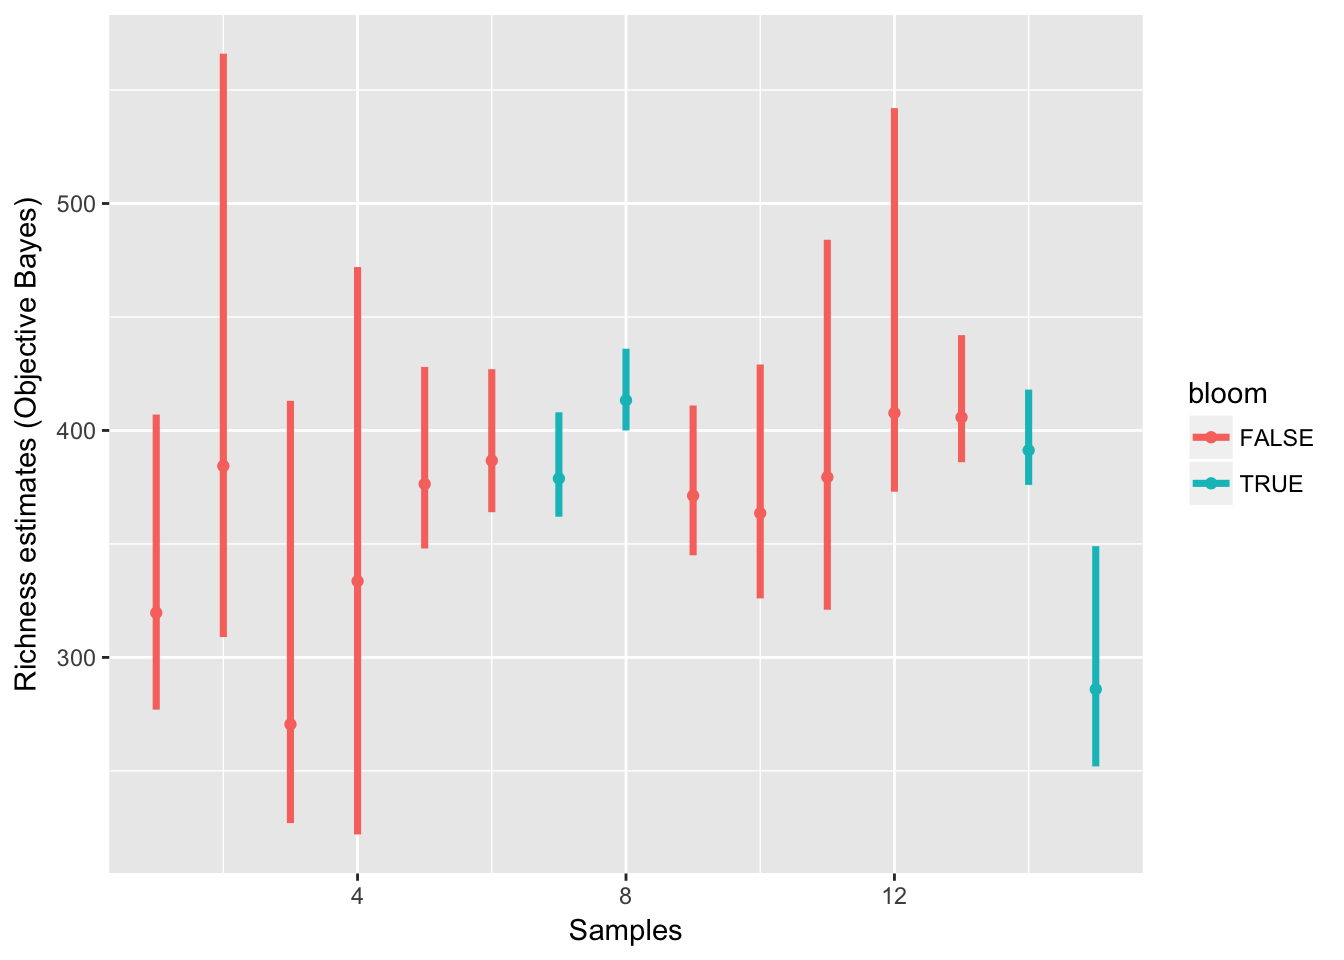
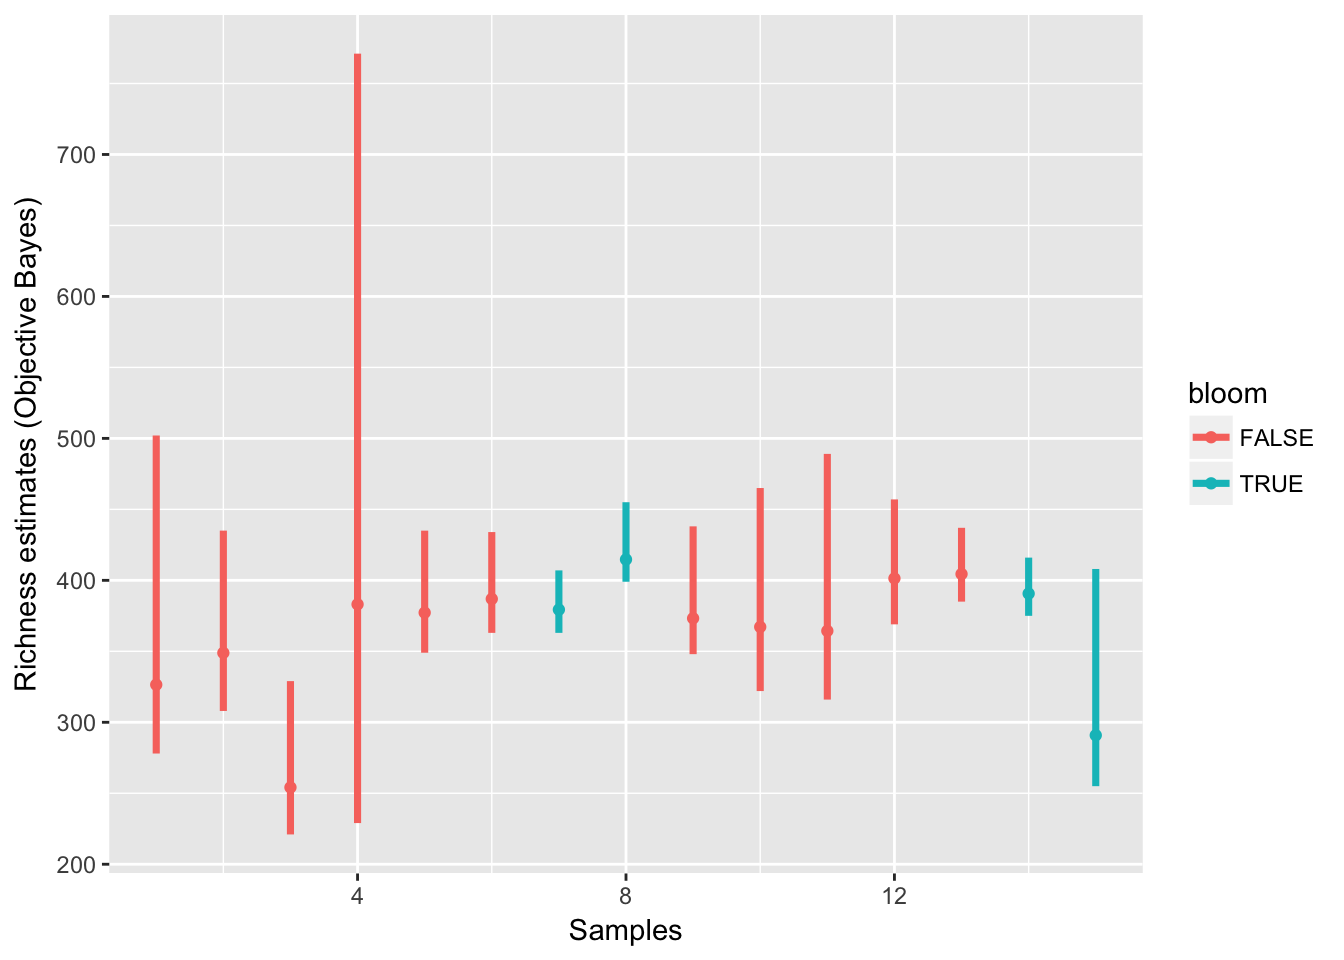
improve documentation slightly

diff --git a/docs/articles/betta-figure.html b/docs/articles/betta-figure.html
@@ -113,21 +113,21 @@ bloom &lt;-<span class="st"> </span>bloom1 ==<span class="st"> "yes"</span></cod
 <div class="sourceCode"><pre class="sourceCode r"><code class="sourceCode r">plot_data_frame &lt;-<span class="st"> </span><span class="kw">data.frame</span>(<span class="st">"index"</span> =<span class="st"> </span><span class="dv">1</span>:<span class="dv">15</span>, lower, upper, means, standard_deviations, <span class="st">"bloom"</span>=bloom[<span class="dv">1</span>:<span class="dv">15</span>])
 plot_data_frame</code></pre></div>
 <pre><code>##                index   lower   upper    means standard_deviations bloom
-## Sample1.LCI.C      1 277.000 407.000 319.6466           32.162596 FALSE
-## Sample2.LCI.C      2 309.000 566.025 384.3426           68.820716 FALSE
-## Sample3.LCI.C      3 227.000 413.050 270.5362           44.773475 FALSE
-## Sample4.LCI.C      4 222.000 472.000 333.6008           69.420384 FALSE
-## Sample5.LCI.C      5 348.000 428.000 376.3898           20.877937 FALSE
-## Sample6.LCI.C      6 363.975 427.000 386.6990           15.903351 FALSE
-## Sample7.LCI.C      7 362.000 408.000 378.8310           11.952649  TRUE
-## Sample8.LCI.C      8 400.000 436.000 413.2944            9.483191  TRUE
-## Sample9.LCI.C      9 345.000 411.000 371.2606           17.691594 FALSE
-## Sample10.LCI.C    10 326.000 429.050 363.5450           26.136132 FALSE
-## Sample11.LCI.C    11 321.000 484.025 379.4162           43.941679 FALSE
-## Sample12.LCI.C    12 373.000 542.025 407.6708           37.480451 FALSE
-## Sample13.LCI.C    13 386.000 442.000 405.7816           14.265546 FALSE
-## Sample14.LCI.C    14 376.000 418.000 391.2666           10.503694  TRUE
-## Sample15.LCI.C    15 251.975 349.000 285.9512           25.441279  TRUE</code></pre>
+## Sample1.LCI.C      1 278.000 502.025 326.4892            50.69495 FALSE
+## Sample2.LCI.C      2 307.975 435.025 348.8994            34.01982 FALSE
+## Sample3.LCI.C      3 221.000 329.000 254.1426            27.48679 FALSE
+## Sample4.LCI.C      4 229.000 771.025 383.1030           144.84993 FALSE
+## Sample5.LCI.C      5 349.000 435.000 377.2350            21.66202 FALSE
+## Sample6.LCI.C      6 363.000 434.000 386.9150            18.50048 FALSE
+## Sample7.LCI.C      7 363.000 407.000 379.3630            11.46300  TRUE
+## Sample8.LCI.C      8 399.000 455.025 414.6988            13.96230  TRUE
+## Sample9.LCI.C      9 348.000 438.025 373.2396            24.01145 FALSE
+## Sample10.LCI.C    10 322.000 465.025 367.1758            34.81771 FALSE
+## Sample11.LCI.C    11 316.000 489.075 364.3738            43.06787 FALSE
+## Sample12.LCI.C    12 369.000 457.000 401.3638            23.61969 FALSE
+## Sample13.LCI.C    13 385.000 437.000 404.4520            13.91090 FALSE
+## Sample14.LCI.C    14 375.000 416.000 390.6568            10.13876  TRUE
+## Sample15.LCI.C    15 255.000 408.000 290.8630            41.30441  TRUE</code></pre>
 <div class="sourceCode"><pre class="sourceCode r"><code class="sourceCode r"><span class="kw"><a href="http://www.rdocumentation.org/packages/ggplot2/topics/ggplot">ggplot</a></span>(plot_data_frame, <span class="kw"><a href="http://www.rdocumentation.org/packages/ggplot2/topics/aes">aes</a></span>(<span class="dt">x =</span> index, <span class="dt">y =</span> means, <span class="dt">col =</span> bloom)) +
 <span class="st">  </span><span class="kw"><a href="http://www.rdocumentation.org/packages/ggplot2/topics/geom_segment">geom_segment</a></span>(<span class="kw"><a href="http://www.rdocumentation.org/packages/ggplot2/topics/aes">aes</a></span>(<span class="dt">x =</span> index, <span class="dt">xend =</span> index, <span class="dt">y =</span> lower, <span class="dt">yend =</span> upper, <span class="dt">col =</span> bloom), <span class="dt">lwd =</span> <span class="fl">1.25</span>) +
 <span class="st">  </span><span class="kw"><a href="http://www.rdocumentation.org/packages/ggplot2/topics/geom_point">geom_point</a></span>(<span class="kw"><a href="http://www.rdocumentation.org/packages/ggplot2/topics/aes">aes</a></span>(<span class="dt">x =</span> index, <span class="dt">y =</span> means)) +<span class="st"> </span><span class="kw"><a href="http://www.rdocumentation.org/packages/ggplot2/topics/labs">xlab</a></span>(<span class="st">"Samples"</span>) +<span class="st"> </span><span class="kw"><a href="http://www.rdocumentation.org/packages/ggplot2/topics/labs">ylab</a></span>(<span class="st">"Richness estimates (Objective Bayes)"</span>)</code></pre></div>

diff --git a/docs/reference/resample_estimate.html b/docs/reference/resample_estimate.html
@@ -135,6 +135,10 @@ differing sample sizes on the variance in estimating alpha diversity, it is
 (currently) advisable to include multiple different sample sizes in your
 resampling</p></td>
     </tr>
+    <tr>
+      <th>...</th>
+      <td><p>Other arguments to pass to <code>my_function</code></p></td>
+    </tr>
     </table>
     
     <h2 class="hasAnchor" id="value"><a class="anchor" href="#value"></a>Value</h2>
@@ -158,13 +162,13 @@ metric given by my_function</p>
 <span class='fu'>resample_estimate</span>(<span class='no'>toy_otu_table</span>[,<span class='fl'>1</span>], <span class='no'>shannon</span>)</div><div class='output co'>#&gt; [1] 4.174315</div><div class='input'>
 <span class='co'># To see the sampling distribution of the resample estimates, repeat this 200 times</span>
 <span class='no'>shannon_estimates</span> <span class='kw'>&lt;-</span> <span class='fu'>replicate</span>(<span class='fl'>200</span>, <span class='fu'>resample_estimate</span>(<span class='no'>toy_otu_table</span>[,<span class='fl'>1</span>], <span class='no'>shannon</span>))
-<span class='fu'>hist</span>(<span class='no'>shannon_estimates</span>)</div><div class='img'><img src='resample_estimate-1.png' alt='' width='700' height='432.632880098887' /></div><div class='input'>
+<span class='fu'>hist</span>(<span class='no'>shannon_estimates</span>)</div><div class='img'><img src='resample_estimate-5.png' alt='' width='700' height='432.632880098887' /></div><div class='input'>
 <span class='co'># To investigate the effect of sample size on the resample estimate of the Shannon index,</span>
 <span class='co'># re-sample over multiple sample sizes; in this case, the number of reads</span>
 <span class='no'>ns</span> <span class='kw'>&lt;-</span> <span class='fu'>apply</span>(<span class='no'>toy_otu_table</span>, <span class='fl'>2</span>, <span class='no'>sum</span>)
 <span class='no'>shannon_estimates</span> <span class='kw'>&lt;-</span> <span class='fu'>replicate</span>(<span class='fl'>200</span>, <span class='fu'>resample_estimate</span>(<span class='no'>toy_otu_table</span>[,<span class='fl'>1</span>], <span class='no'>shannon</span>, <span class='kw'>my_sample_size</span> <span class='kw'>=</span> <span class='no'>ns</span>))
 
-<span class='fu'>hist</span>(<span class='no'>shannon_estimates</span>)</div><div class='img'><img src='resample_estimate-2.png' alt='' width='700' height='432.632880098887' /></div><div class='input'><span class='fu'>sd</span>(<span class='no'>shannon_estimates</span>) <span class='co'># a not too terrible estimate of the standard error in estimating Shannon</span></div><div class='output co'>#&gt; [1] 0.07059159</div><div class='input'>
+<span class='fu'>hist</span>(<span class='no'>shannon_estimates</span>)</div><div class='img'><img src='resample_estimate-6.png' alt='' width='700' height='432.632880098887' /></div><div class='input'><span class='fu'>sd</span>(<span class='no'>shannon_estimates</span>) <span class='co'># a not too terrible estimate of the standard error in estimating Shannon</span></div><div class='output co'>#&gt; [1] 0.07059159</div><div class='input'>
 
 
 

diff --git a/docs/articles/resample-estimates.html b/docs/articles/resample-estimates.html
@@ -99,7 +99,7 @@
 <span class="kw"><a href="../reference/shannon.html">shannon</a></span>(toy_otu_table[,<span class="dv">1</span>])</code></pre></div>
 <pre><code>## [1] 4.220773</code></pre>
 <div class="sourceCode"><pre class="sourceCode r"><code class="sourceCode r"><span class="kw"><a href="../reference/resample_estimate.html">resample_estimate</a></span>(toy_otu_table[,<span class="dv">1</span>], shannon)</code></pre></div>
-<pre><code>## [1] 4.220589</code></pre>
+<pre><code>## [1] 4.225765</code></pre>
 <p>The function resample_estimate takes on a column of your OTU table, bootstraps the OTUs that were observed, and calculates the plug-in estimate of the alpha diversity function on that bootstrapped sample.</p>
 <p>Great! How do we use that to get an estimate of the variance of the plug-in Shannon estimate? We do it lots of times!</p>
 <div class="sourceCode"><pre class="sourceCode r"><code class="sourceCode r">shannon_estimates &lt;-<span class="st"> </span><span class="kw">replicate</span>(<span class="dv">200</span>, <span class="kw"><a href="../reference/resample_estimate.html">resample_estimate</a></span>(toy_otu_table[,<span class="dv">1</span>], shannon))
@@ -117,14 +117,14 @@
 <p><img src="resample-estimates_files/figure-html/unnamed-chunk-4-1.png" width="672"></p>
 <p>That’s a lot more variability than we initially saw! How about the standard deviation?</p>
 <div class="sourceCode"><pre class="sourceCode r"><code class="sourceCode r"><span class="kw">sd</span>(shannon_estimates_n)</code></pre></div>
-<pre><code>## [1] 0.07578316</code></pre>
+<pre><code>## [1] 0.06605737</code></pre>
 <div class="sourceCode"><pre class="sourceCode r"><code class="sourceCode r"><span class="kw">sd</span>(shannon_estimates)</code></pre></div>
-<pre><code>## [1] 0.05926301</code></pre>
+<pre><code>## [1] 0.03997679</code></pre>
 <p>Okay that’s not that different. But since current practices pretending that the standard deviation is zero (no error bars on alpha diversity!), it’s way better than pretending that the variance is zero.</p>
 <p>Similarly, this isn’t a great solution to constructing confidence intervals for Shannon, but it’s a start!</p>
 <div class="sourceCode"><pre class="sourceCode r"><code class="sourceCode r"><span class="kw">quantile</span>(shannon_estimates_n, <span class="kw">c</span>(<span class="fl">0.025</span>, <span class="fl">0.975</span>))</code></pre></div>
 <pre><code>##     2.5%    97.5% 
-## 3.887958 4.228322</code></pre>
+## 3.992488 4.229406</code></pre>
 <p>Watch this space for better ways to construct confidence intervals for alpha diversity!</p>
 <p>(Obviously this tutorial applies to any other diversity index, not just Shannon, but hopefully was helpful to make this discussion more concrete.)</p>
 <p>By the way – it’s much better, in my opinion, to use non-bootstrapped standard errors for species richness estimates. This is because there are certain regularity conditions that are necessary for the bootstrap to give reasonable estimates of variance, and these definitely don’t hold for species richness estimation.</p>

diff --git a/docs/reference/breakaway_nof1.html b/docs/reference/breakaway_nof1.html
@@ -242,7 +242,7 @@ diversity but spurious singletons. <em>Under review.</em></p>
 #&gt; beta0      1.20078845      0.18102489
 #&gt; beta1      0.05614293      0.04800126
 #&gt; alpha1     0.02874888      0.05381204
-#&gt; xbar			 16.5</div><div class='img'><img src='breakaway_nof1-1.png' alt='' width='700' height='432.632880098887' /></div><div class='input'><span class='fu'>breakaway_nof1</span>(<span class='no'>apples</span>[-<span class='fl'>1</span>, ], <span class='kw'>plot</span> <span class='kw'>=</span> <span class='fl'>FALSE</span>, <span class='kw'>print</span> <span class='kw'>=</span> <span class='fl'>FALSE</span>, <span class='kw'>answers</span> <span class='kw'>=</span> <span class='fl'>TRUE</span>)</div><div class='output co'>#&gt; $code
+#&gt; xbar			 16.5</div><div class='img'><img src='breakaway_nof1-3.png' alt='' width='700' height='432.632880098887' /></div><div class='input'><span class='fu'>breakaway_nof1</span>(<span class='no'>apples</span>[-<span class='fl'>1</span>, ], <span class='kw'>plot</span> <span class='kw'>=</span> <span class='fl'>FALSE</span>, <span class='kw'>print</span> <span class='kw'>=</span> <span class='fl'>FALSE</span>, <span class='kw'>answers</span> <span class='kw'>=</span> <span class='fl'>TRUE</span>)</div><div class='output co'>#&gt; $code
 #&gt; [1] 3
 #&gt; 
 #&gt; $name

diff --git a/docs/reference/inverse_simpson_better.html b/docs/reference/inverse_simpson_better.html
@@ -127,12 +127,12 @@ Inverse-Simpson index.</p>
     <h2 class="hasAnchor" id="value"><a class="anchor" href="#value"></a>Value</h2>
 
     <p>An estimate, standard error, and confidence set of the index.</p>
-<p>inverse_simpson_better</p>
     
 
     <h2 class="hasAnchor" id="examples"><a class="anchor" href="#examples"></a>Examples</h2>
     <pre class="examples"><div class='input'>
-<span class='fu'>inverse_simpson_better</span>(<span class='no'>apples</span>)</div><div class='output co'>#&gt; <span class='error'>Error in alpha_better(input, 2): could not find function "alpha_better"</span></div><div class='input'>
+<span class='fu'>inverse_simpson_better</span>(<span class='no'>apples</span>)</div><div class='output co'>#&gt; <span class='warning'>Warning: Confidence intervals and standard errors are approximate!</span></div><div class='output co'>#&gt;   index estimate standard_error    lower    upper
+#&gt; 1     2 313.4193       43.87848 227.4191 399.4195</div><div class='input'>
 </div></pre>
   </div>
   <div class="col-md-3 hidden-xs hidden-sm" id="sidebar">

diff --git a/docs/reference/betta_pic.html b/docs/reference/betta_pic.html
@@ -196,7 +196,7 @@ changes in biodiversity. arXiv preprint.</p>
 
 
 
-<span class='fu'>betta_pic</span>(<span class='fu'>c</span>(<span class='fl'>1552</span>, <span class='fl'>1500</span>, <span class='fl'>884</span>), <span class='fu'>c</span>(<span class='fl'>305</span>, <span class='fl'>675</span>, <span class='fl'>205</span>), <span class='kw'>mymain</span> <span class='kw'>=</span> <span class='st'>"Example title"</span>)</div><div class='img'><img src='betta_pic-1.png' alt='' width='700' height='432.632880098887' /></div><div class='input'>
+<span class='fu'>betta_pic</span>(<span class='fu'>c</span>(<span class='fl'>1552</span>, <span class='fl'>1500</span>, <span class='fl'>884</span>), <span class='fu'>c</span>(<span class='fl'>305</span>, <span class='fl'>675</span>, <span class='fl'>205</span>), <span class='kw'>mymain</span> <span class='kw'>=</span> <span class='st'>"Example title"</span>)</div><div class='img'><img src='betta_pic-3.png' alt='' width='700' height='432.632880098887' /></div><div class='input'>
 
 
 

diff --git a/docs/reference/make_frequency_count_table.html b/docs/reference/make_frequency_count_table.html
@@ -110,12 +110,22 @@
     
 
     <pre class="usage"><span class='fu'>make_frequency_count_table</span>(<span class='no'>labels</span>)</pre>
-        
+    
+    <h2 class="hasAnchor" id="arguments"><a class="anchor" href="#arguments"></a> Arguments</h2>
+    <table class="ref-arguments">
+    <colgroup><col class="name" /><col class="desc" /></colgroup>
+    <tr>
+      <th>labels</th>
+      <td><p>A vector of counts of the taxa; i.e. a vector giving the number of times each taxon was observed.</p></td>
+    </tr>
+    </table>
+    
 
   </div>
   <div class="col-md-3 hidden-xs hidden-sm" id="sidebar">
     <h2>Contents</h2>
     <ul class="nav nav-pills nav-stacked">
+      <li><a href="#arguments">Arguments</a></li>
                 </ul>
 
   </div>

diff --git a/docs/reference/hill_better.html b/docs/reference/hill_better.html
@@ -134,6 +134,10 @@ study. If none is given, <code><a href='breakaway.html'>breakaway</a></code> is 
       <th>ccc_se</th>
       <td><p>The standard error in the estimate of ccc.</p></td>
     </tr>
+    <tr>
+      <th>quantile</th>
+      <td><p>The desired coverage of the confidence interval. Defaults to 0.95. Note all confidence intervals are approximate.</p></td>
+    </tr>
     </table>
     
     <h2 class="hasAnchor" id="value"><a class="anchor" href="#value"></a>Value</h2>

diff --git a/docs/reference/breakaway.html b/docs/reference/breakaway.html
@@ -157,6 +157,10 @@ estimates cannot be considered reliable in this case. The option
 of the frequency count tables, i.e. insufficiently many contiguous
 frequencies.</p></td>
     </tr>
+    <tr>
+      <th>useAll</th>
+      <td><p>Forces all data to be used. Otherwise breakaway determines the optimal cutoff.</p></td>
+    </tr>
     </table>
     
     <h2 class="hasAnchor" id="value"><a class="anchor" href="#value"></a>Value</h2>
